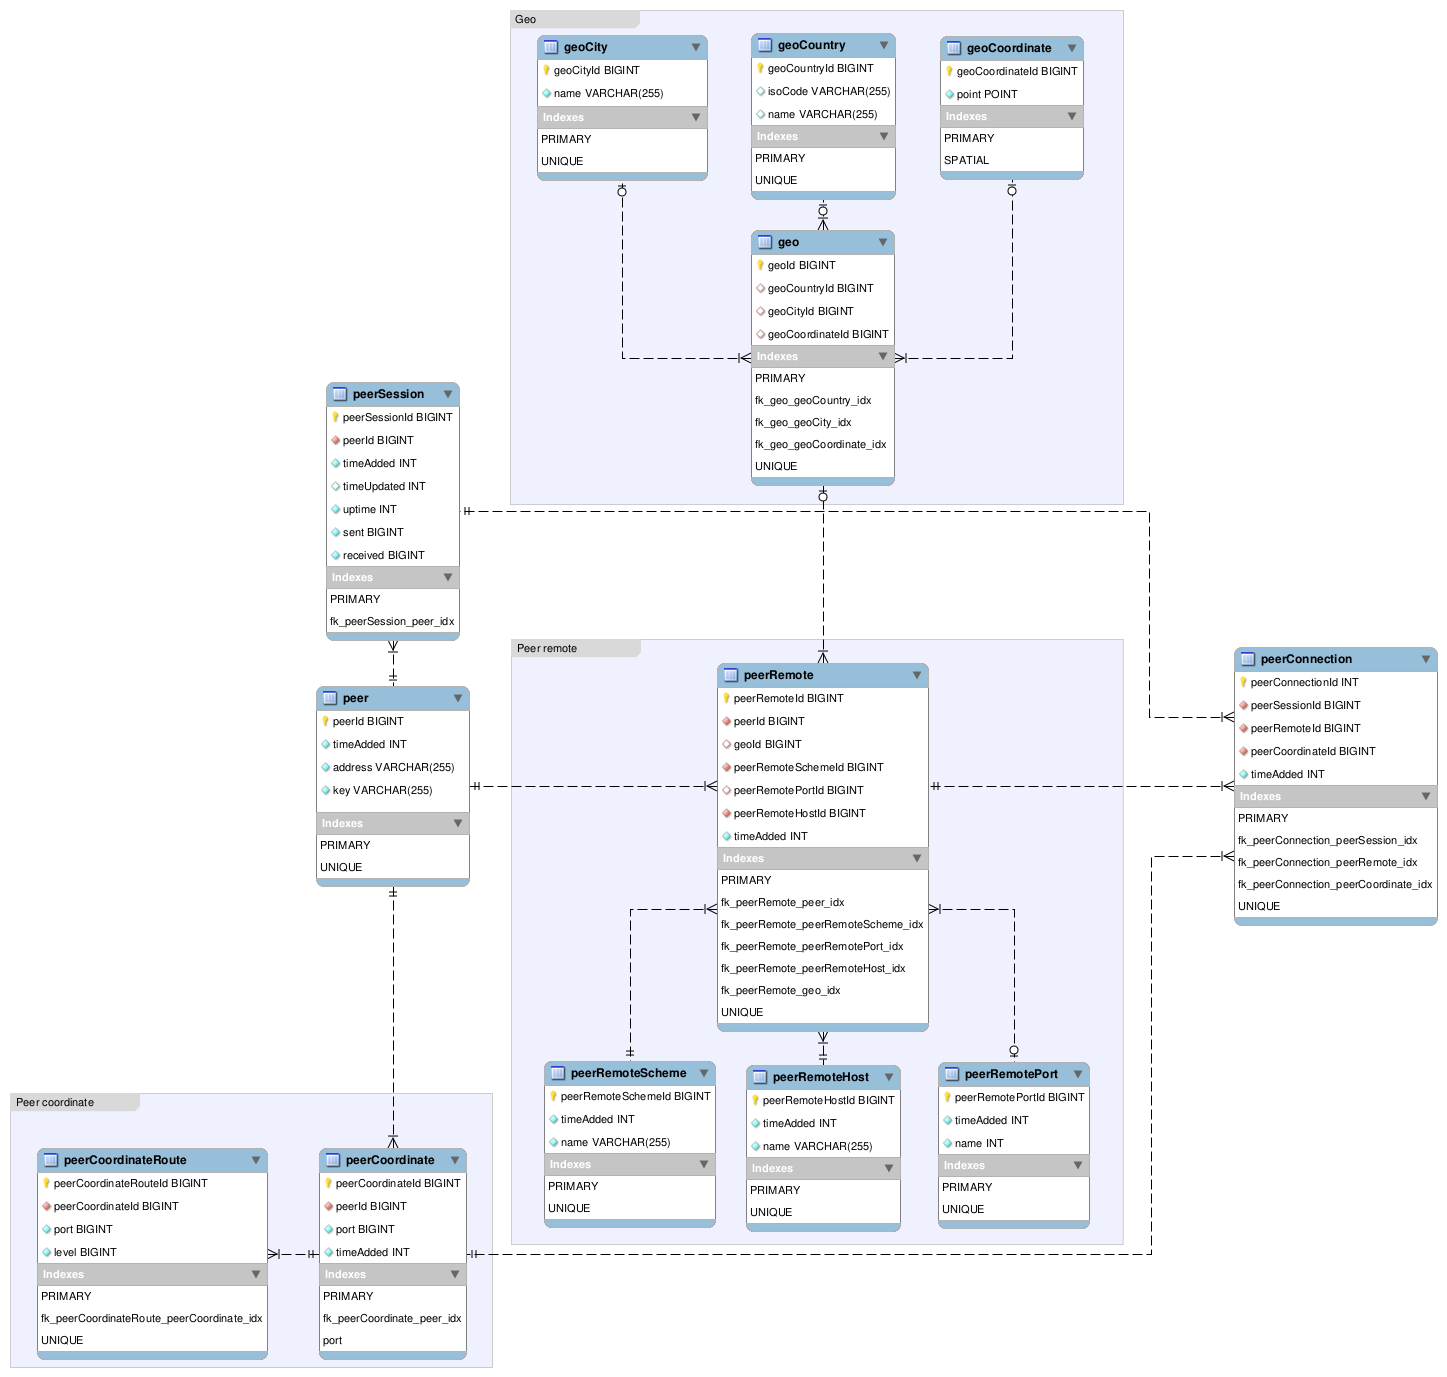
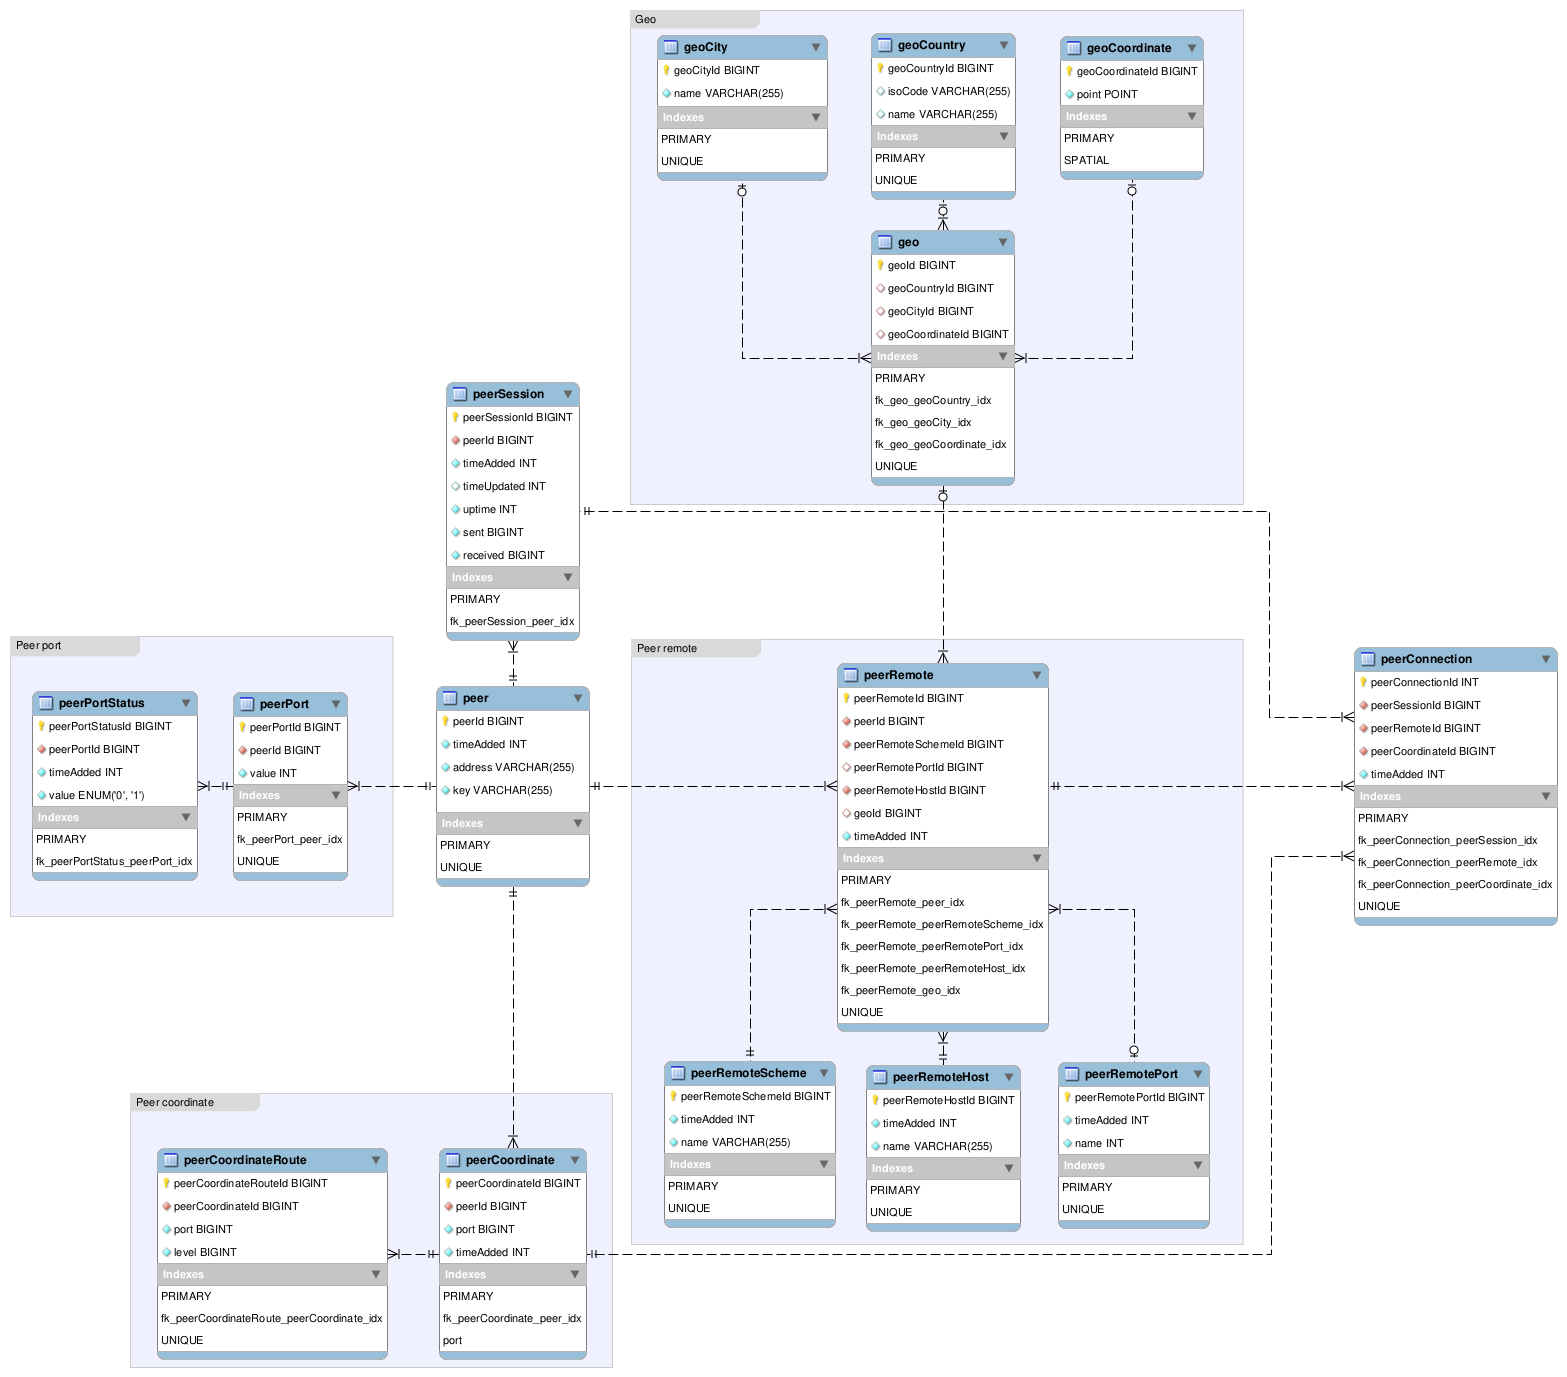
implement port check feature

diff --git a/src/public/assets/theme/default/css/common.css b/src/public/assets/theme/default/css/common.css
@@ -72,6 +72,10 @@ tbody tr:hover {
   background: #f2f2f2;
 }
 
+tfoot {
+  border-top: 1px #f2f2f2 solid;
+}
+
 a, a:hover, a:active, a:visited {
   color: #5785b7;
   text-decoration: none;
@@ -89,9 +93,16 @@ form > input::placeholder {
   color: #333;
 }
 
-form > input[type="text"] {
-  padding: 7px 4px;
+form > input[name="query"] {
+  padding: 6px 4px;
   min-width: 260px;
+  border: 1px #f2f2f2 solid;
+}
+
+form > input[name="port"] {
+  padding: 6px 4px;
+  min-width: 64px;
+  border: 1px #f2f2f2 solid;
 }
 
 form > button {

diff --git a/src/public/assets/theme/default/css/framework.css b/src/public/assets/theme/default/css/framework.css
@@ -44,6 +44,10 @@
   color: #5785b7;
 }
 
+.line-height-26 {
+  line-height: 26px;
+}
+
 /*
 .background-color-green {
   background-color: #e9f9e7;
@@ -66,8 +70,23 @@
   padding: 0;
 }
 
+.padding-x-0 {
+  padding-left: 0;
+  padding-right: 0;
+}
+
 .padding-4 {
   padding: 4px;
+}
+
+.padding-x-4 {
+  padding-left: 4px;
+  padding-right: 4px;
+}
+
+.padding-y-8 {
+  padding-top: 8px;
+  padding-bottom: 8px;
 }
 
 .margin-y-8 {

diff --git a/src/public/peer.php b/src/public/peer.php
@@ -38,6 +38,7 @@ $requestSort     = isset($_GET['sort']) && in_array($_GET['sort'], ['peerConnect
 $requestOrder    = isset($_GET['order']) && in_array($_GET['order'], ['ASC', 'DESC']) ? $_GET['order'] : 'DESC';
 $requestPage     = isset($_GET['page']) && $_GET['page'] > 1 ? (int) $_GET['page'] : 1;
 $requestCalendar = isset($_GET['calendar']) && in_array($_GET['calendar'], ['traffic']) ? $_GET['calendar'] : 'traffic';
+$requestPort     = isset($_POST['port']) && 5 > strlen($_POST['port']) && $_POST['port'] > 0 ? (int) $_POST['port'] : false;
 
 // App controller begin
 $calendar = new Yggverse\Graph\Calendar\Month($requestTime);
@@ -114,6 +115,77 @@ $peerRemoteConnections = $memory->getByMethodCallback(
 
 $peerInfo = $memory->getByMethodCallback($db, 'getPeerInfo', [$requestPeerId]);
 
+// Port check
+$responsePort = (object)
+[
+  'status'  => false,
+  'message' => null,
+];
+
+if ($requestPort) {
+
+  if ($peerInfo) {
+
+    // Check requests quota
+    $lastPeerPortStatus = $db->findLastPeerPortStatusByPeerId($requestPeerId);
+
+    if ($lastPeerPortStatus &&
+        $lastPeerPortStatus->timeAdded > time() - WEBSITE_PEER_PORT_CHECK_TIMEOUT) {
+
+      $responsePort = (object)
+      [
+        'status'  => false,
+        'message' => sprintf(_('request quota %s minutes'), WEBSITE_PEER_PORT_CHECK_TIMEOUT / 60),
+      ];
+
+    } else {
+
+      // Get port connection
+      $connection = @fsockopen(
+        sprintf('[%s]', $peerInfo->address),
+        $requestPort,
+        $error_code,
+        $error_message,
+        5
+      );
+
+      if (is_resource($connection)) {
+
+        $responsePort = (object)
+        [
+          'status'  => true,
+          'message' => sprintf(_('%s port open'), $requestPort),
+        ];
+
+        fclose($connection);
+
+      } else {
+
+        $responsePort = (object)
+        [
+          'status'  => false,
+          'message' => sprintf(_('%s port closed'), $requestPort),
+        ];
+      }
+
+      // Init port
+      if ($peerPort = $db->findPeerPortByValue($requestPeerId, $requestPort)) {
+
+        $peerPortId = $peerPort->peerPortId;
+
+      } else {
+
+        $peerPortId = $db->addPeerPort($requestPeerId, $requestPort);
+      }
+
+      // Save connection result
+      $db->addPeerPortStatus($peerPortId, $responsePort->status, time());
+    }
+  }
+}
+
+$peerPortStatuses = $db->findLastPeerPortStatusesByPeerId($requestPeerId);
+
 ?>
 
 <!DOCTYPE html>
@@ -123,10 +195,14 @@ $peerInfo = $memory->getByMethodCallback($db, 'getPeerInfo', [$requestPeerId]);
     <link rel="stylesheet" type="text/css" href="<?php echo WEBSITE_URL ?>/assets/theme/<?php echo $requestTheme ?>/css/framework.css?<?php echo time() ?>" />
     <link rel="stylesheet" type="text/css" href="<?php echo WEBSITE_URL ?>/assets/theme/<?php echo $requestTheme ?>/css/yggverse/graph/calendar/month.css?<?php echo time() ?>" />
     <title>
-      <?php echo sprintf(_('Peer %s - %s'), $peerInfo->address, WEBSITE_NAME) ?>
+      <?php if ($peerInfo) { ?>
+        <?php echo sprintf(_('Peer %s - %s'), $peerInfo->address, WEBSITE_NAME) ?>
+      <?php } else { ?>
+        <?php echo _('Not found') ?>
+      <?php } ?>
     </title>
-    <meta name="description" content="<?php echo _('Yggdrasil peer info analytics: ip, traffic, timing, routing, geo-location') ?>" />
-    <meta name="keywords" content="yggdrasil, yggstate, yggverse, analytics, explorer, search engine, crawler, ip info, geo location, node city, node country, traffic stats, ports, node coordinates, connection time, routes, open-source, js-less" />
+    <meta name="description" content="<?php echo _('Yggdrasil peer info analytics: ip, traffic, timing, routing, geo-location, port status') ?>" />
+    <meta name="keywords" content="yggdrasil, yggstate, yggverse, analytics, explorer, search engine, crawler, ip info, geo location, node city, node country, traffic stats, port open status, node coordinates, connection time, routes, open-source, js-less" />
     <meta name="author" content="YGGverse" />
     <meta charset="UTF-8" />
   </head>
@@ -227,7 +303,7 @@ $peerInfo = $memory->getByMethodCallback($db, 'getPeerInfo', [$requestPeerId]);
             </div>
             <div class="column width-50 width-tablet-100 width-mobile-100">
               <div class="padding-4">
-              <h2><?php echo _('Peer info') ?></h2>
+                <h2><?php echo _('Peer info') ?></h2>
                 <div class="row padding-0">
                   <div class="column width-100">
                     <table class="bordered width-100">
@@ -309,6 +385,61 @@ $peerInfo = $memory->getByMethodCallback($db, 'getPeerInfo', [$requestPeerId]);
                         </tbody>
                       </table>
                     </div>
+                  </div>
+                </div>
+                <div class="row padding-0">
+                  <div class="column width-50">
+                    <table class="bordered width-100">
+                      <thead>
+                        <tr>
+                          <th  class="text-left" colspan="3"><?php echo _('Port') ?></th>
+                        </tr>
+                      </thead>
+                      <tbody>
+                        <?php if ($peerPortStatuses) { ?>
+                          <?php foreach ($peerPortStatuses as $peerPortStatus) { ?>
+                            <tr>
+                              <td class="text-left"><?php echo $peerPortStatus->port ?></td>
+                              <td class="text-left"><?php echo date('Y-m-d H:s:i', $peerPortStatus->timeAdded) ?></td>
+                              <td class="text-center padding-0">
+                              <?php if ($peerPortStatus->status) { ?>
+                                <span class="font-size-22 cursor-default text-color-green" title="<?php echo _('open') ?>">
+                                  &bull;
+                                </span>
+                              </td>
+                              <?php } else { ?>
+                                <span class="font-size-22 cursor-default text-color-red" title="<?php echo _('closed') ?>">
+                                  &bull;
+                                </span>
+                              <?php } ?>
+                            </tr>
+                          <?php } ?>
+                        <?php } else { ?>
+                          <tr>
+                            <td colspan="3"><?php echo _('no records found') ?></td>
+                          </tr>
+                        <?php } ?>
+                      </tbody>
+                      <tfoot>
+                        <tr>
+                          <td class="text-left padding-x-0 padding-y-8" colspan="3">
+                            <?php if ($responsePort->status) { ?>
+                              <span class="padding-x-4 line-height-26 text-color-green">
+                                <?php echo $responsePort->message ?>
+                              </span>
+                            <?php } else { ?>
+                              <span class="padding-x-4 line-height-26 text-color-red">
+                                <?php echo $responsePort->message ?>
+                              </span>
+                            <?php } ?>
+                            <form name="port" method="post" action="<?php echo WEBSITE_URL ?>/peer.php?peerId=<?php echo $requestPeerId ?>">
+                              <input class="text-center" type="text" name="port" value="<?php echo $requestPort ?>" maxlength="5" size="5" placeholder="<?php echo _('port') ?>" />
+                              <button type="submit"><?php echo _('check') ?></button>
+                            </form>
+                          </td>
+                        </tr>
+                      </tfoot>
+                    </table>
                   </div>
                 </div>
                 <h2>

diff --git a/src/library/mysql.php b/src/library/mysql.php
@@ -114,6 +114,84 @@ class MySQL {
     return $query->fetchAll();
   }
 
+  // Port
+  public function findPeerPortByValue(int $peerId, int $value) {
+
+    $this->_debug->query->select->total++;
+
+    $query = $this->_db->prepare('SELECT * FROM `peerPort` WHERE `peerId` = ? AND `value` = ? LIMIT 1');
+
+    $query->execute([$peerId, $value]);
+
+    return $query->fetch();
+  }
+
+  public function addPeerPort(int $peerId, int $value) {
+
+    $this->_debug->query->insert->total++;
+
+    $query = $this->_db->prepare('INSERT INTO `peerPort` SET `peerId` = ?, `value` = ?');
+
+    $query->execute([$peerId, $value]);
+
+    return $this->_db->lastInsertId();
+  }
+
+  public function addPeerPortStatus(int $peerPortId, bool $value, int $timeAdded) {
+
+    $this->_debug->query->insert->total++;
+
+    $query = $this->_db->prepare('INSERT INTO `peerPortStatus` SET `peerPortId` = ?, `value` = ?, `timeAdded` = ?');
+
+    $query->execute([$peerPortId, $value ? "1" : "0", $timeAdded]);
+
+    return $this->_db->lastInsertId();
+  }
+
+  public function findLastPeerPortStatusesByPeerId(int $peerId, int $limit = 5) {
+
+    $this->_debug->query->select->total++;
+
+    $query = $this->_db->prepare('SELECT  `peerPort`.`value` AS `port`,
+                                          `peerPortStatus`.`value` AS `status`,
+                                          `peerPortStatus`.`timeAdded`
+
+                                          FROM `peerPort`
+                                          JOIN `peerPortStatus` ON (`peerPortStatus`.`peerPortId` = `peerPort`.`peerPortId`)
+
+                                          WHERE `peerPort`.`peerId` = ?
+
+                                          ORDER BY `peerPortStatus`.`timeAdded` DESC
+
+                                          LIMIT ' . (int) $limit);
+
+    $query->execute([$peerId]);
+
+    return $query->fetchAll();
+  }
+
+  public function findLastPeerPortStatusByPeerId(int $peerId) {
+
+    $this->_debug->query->select->total++;
+
+    $query = $this->_db->prepare('SELECT  `peerPort`.`value` AS `port`,
+                                          `peerPortStatus`.`value` AS `status`,
+                                          `peerPortStatus`.`timeAdded`
+
+                                          FROM `peerPort`
+                                          JOIN `peerPortStatus` ON (`peerPortStatus`.`peerPortId` = `peerPort`.`peerPortId`)
+
+                                          WHERE `peerPort`.`peerId` = ?
+
+                                          ORDER BY `peerPortStatus`.`timeAdded` DESC
+
+                                          LIMIT 1');
+
+    $query->execute([$peerId]);
+
+    return $query->fetch();
+  }
+
   // Geo
   public function findGeo(mixed $geoCountryId, mixed $geoCityId, mixed $geoCoordinateId) { // int|null
 
